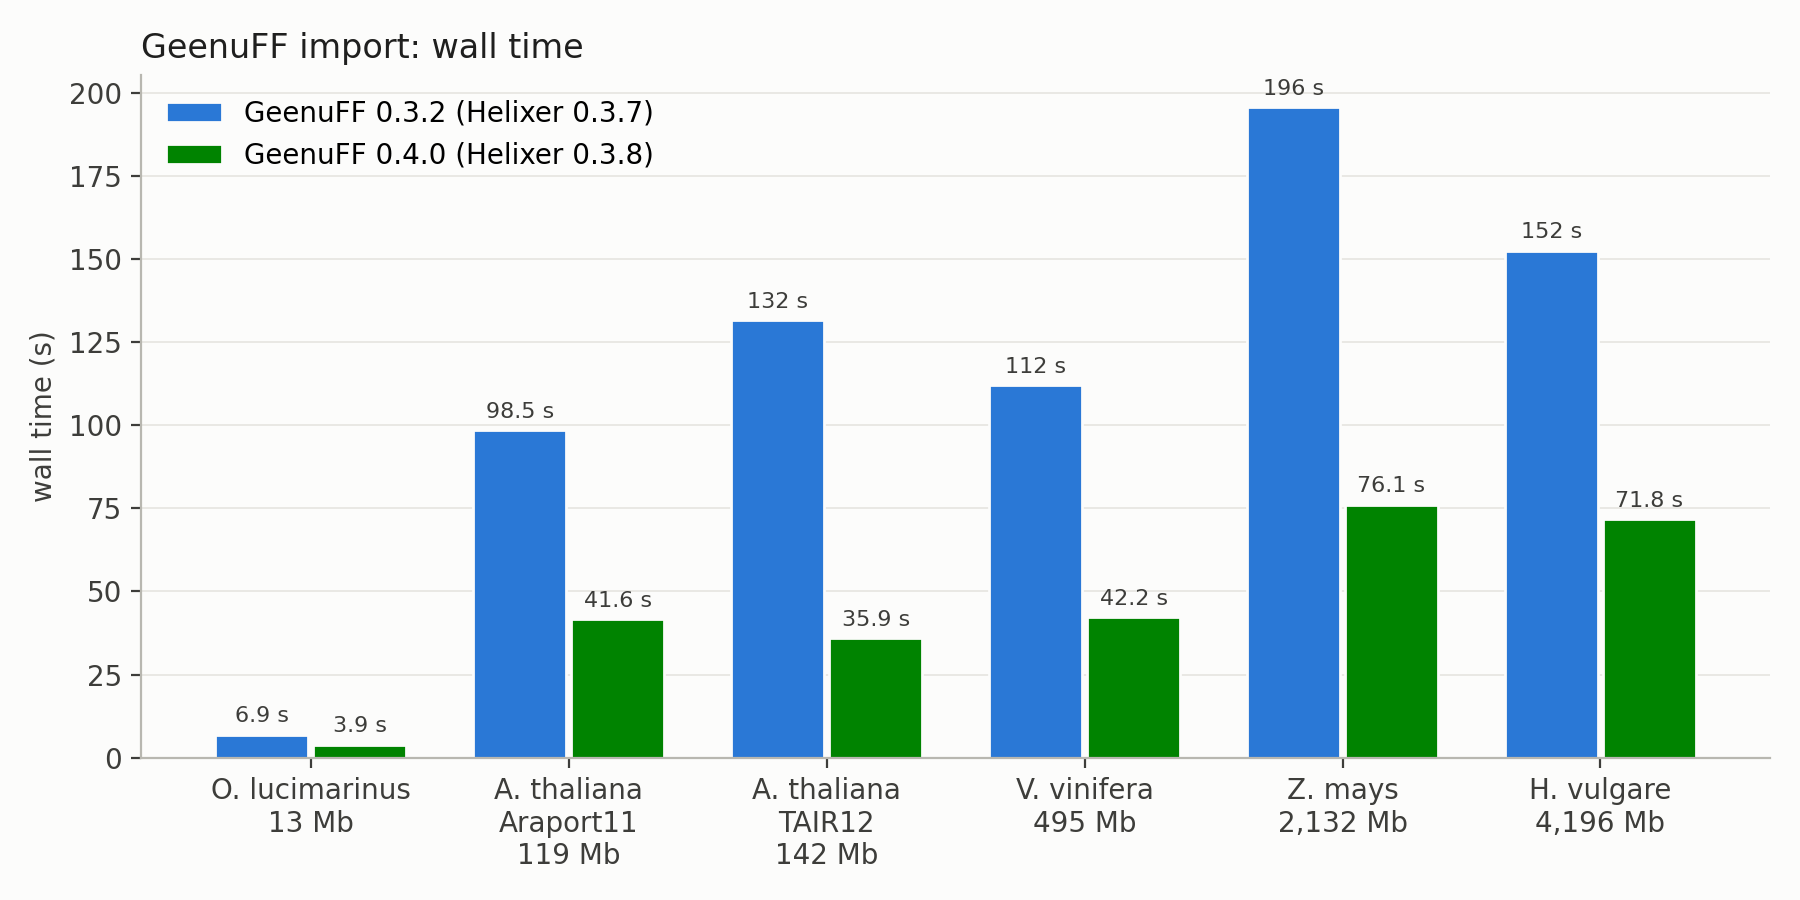
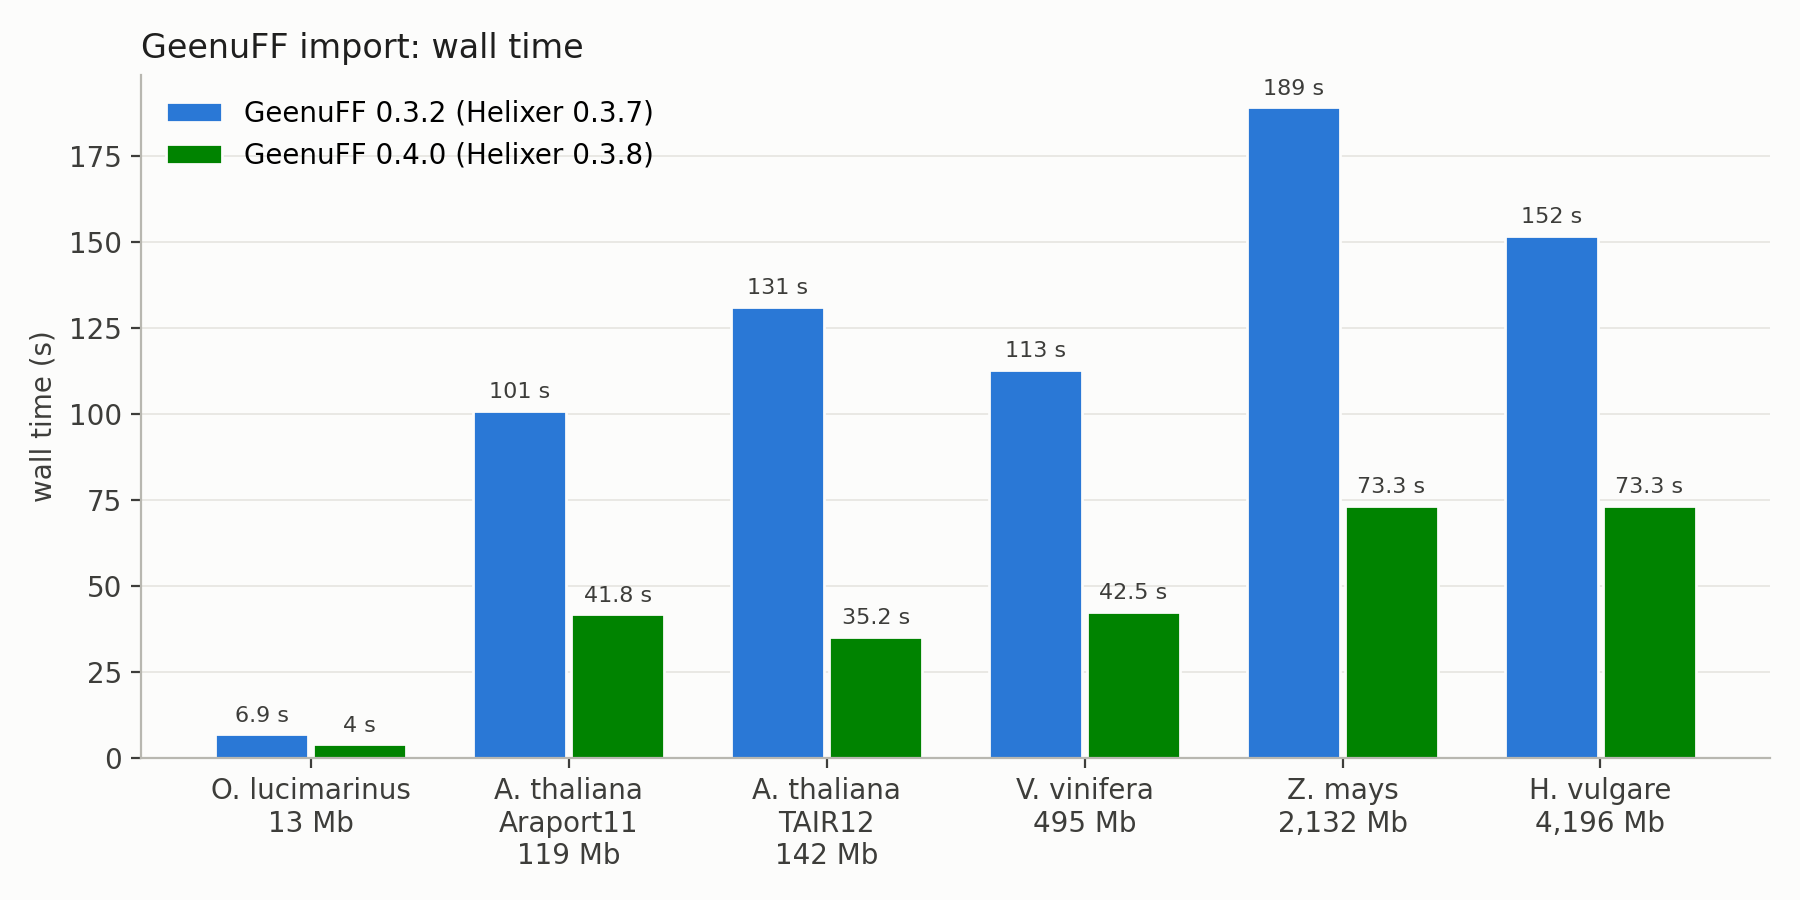
bump SQLAlchemy to 1.4.54

diff --git a/geenuff/base/orm.py b/geenuff/base/orm.py
@@ -1,14 +1,15 @@
 import bisect
 
-from sqlalchemy.ext.declarative import declarative_base
 from sqlalchemy import (Table, Column, Integer, ForeignKey, String, Enum, CheckConstraint, UniqueConstraint, Boolean,
                         Float)
-from sqlalchemy.orm import relationship
+from sqlalchemy.orm import declarative_base, relationship
 
 from geenuff.base import types
 
 # setup classes for data holding
 Base = declarative_base()
+# Enum and Boolean columns are given create_constraint=True: SQLAlchemy 1.4 writes their CHECK constraints
+# only when asked, and they are the only check of the values the importer's bulk inserts write as plain strings
 
 # bases per row of the sequence_chunk table, well below SQLite's limit of 1,000,000,000 bytes per value
 SEQUENCE_CHUNK_SIZE = 100_000_000
@@ -112,7 +113,7 @@ class SuperLocus(Base):
     id = Column(Integer, primary_key=True)
     given_name = Column(String)
     aliases = Column(String)
-    type = Column(Enum(types.SuperLocusAll), index=True)
+    type = Column(Enum(types.SuperLocusAll, create_constraint=True), index=True)
     # why this locus is left out of exports, NULL where it is exported normally. Its features are
     # kept either way: the annotation is recorded as given, and only what a consumer is handed
     # depends on this. Set where there is no honest way to export the locus at all, rather than
@@ -160,7 +161,7 @@ super_locus_overlap = Table(
     Column('partner_id', Integer, ForeignKey('super_locus.id'), nullable=False, index=True),
     Column('start', Integer, nullable=False),
     Column('end', Integer, nullable=False),
-    Column('is_plus_strand', Boolean, nullable=False),
+    Column('is_plus_strand', Boolean(create_constraint=True), nullable=False),
     Column('coordinate_id', Integer, ForeignKey('coordinate.id'), nullable=False, index=True)
 )
 
@@ -177,8 +178,8 @@ class Transcript(Base):
     id = Column(Integer, primary_key=True)
     given_name = Column(String)
 
-    type = Column(Enum(types.TranscriptLevel), index=True)
-    longest = Column(Boolean, index=True)
+    type = Column(Enum(types.TranscriptLevel, create_constraint=True), index=True)
+    longest = Column(Boolean(create_constraint=True), index=True)
 
     super_locus_id = Column(Integer, ForeignKey('super_locus.id'), nullable=False, index=True)
     super_locus = relationship('SuperLocus', back_populates='transcripts')
@@ -203,7 +204,7 @@ class TranscriptError(Base):
     id = Column(Integer, primary_key=True)
     transcript_id = Column(Integer, ForeignKey('transcript.id'), nullable=False, index=True)
     transcript = relationship('Transcript', back_populates='errors')
-    type = Column(Enum(types.Errors), nullable=False, index=True)
+    type = Column(Enum(types.Errors, create_constraint=True), nullable=False, index=True)
 
     __table_args__ = (
         UniqueConstraint('transcript_id', 'type', name='unique_error_per_transcript'),
@@ -260,14 +261,14 @@ class Feature(Base):
     # basic attributes
     id = Column(Integer, primary_key=True)
     given_name = Column(String)
-    type = Column(Enum(types.GeenuffFeature), index=True)
+    type = Column(Enum(types.GeenuffFeature, create_constraint=True), index=True)
 
     start = Column(Integer, nullable=False)
-    start_is_biological_start = Column(Boolean, nullable=False)
+    start_is_biological_start = Column(Boolean(create_constraint=True), nullable=False)
     end = Column(Integer, nullable=False)
-    end_is_biological_end = Column(Boolean, nullable=False)
+    end_is_biological_end = Column(Boolean(create_constraint=True), nullable=False)
 
-    is_plus_strand = Column(Boolean, nullable=False)
+    is_plus_strand = Column(Boolean(create_constraint=True), nullable=False)
     score = Column(Float)
     source = Column(String)
     phase = Column(Integer)

diff --git a/geenuff/applications/exporter.py b/geenuff/applications/exporter.py
@@ -244,7 +244,8 @@ class GeenuffExportController(object):
                      .join(TranscriptPiece, TranscriptPiece.transcript_id == Transcript.id)
                      .join(asso_tp_2_f, asso_tp_2_f.c.transcript_piece_id == TranscriptPiece.id)
                      .join(Feature, asso_tp_2_f.c.feature_id == Feature.id)
-                     .join(Coordinate, Feature.coordinate_id == Coordinate.id))
+                     .join(Coordinate, Feature.coordinate_id == Coordinate.id)
+                     .join(Genome, Coordinate.genome_id == Genome.id))
         # the longest transcripts are the coding ones selected for export, whatever their types,
         # as in the h5 export, and coding ones are selected by their CDS (see SuperLocusRanger);
         # otherwise all isoforms are those of plain genes, mRNAs and transcripts, unless all types

diff --git a/geenuff/applications/importer.py b/geenuff/applications/importer.py
@@ -1666,7 +1666,8 @@ class ImportController(object):
                     for mask in transcript['masks']:
                         mask.add_to_queue()
                         mask.insert_feature_piece_association(tp.id)
-                    for error_type in transcript['detected_error_types']:
+                    # sorted, the set's order changing between runs with Python's string hashing
+                    for error_type in sorted(transcript['detected_error_types']):
                         self.insertion_queues.transcript_error.queue.append(
                             {'transcript_id': transcript['transcript'].id, 'type': error_type})
 

diff --git a/docs/performance.md b/docs/performance.md
@@ -1,26 +1,27 @@
 # Import speed, memory and masking: GeenuFF 0.4.0 against 0.3.2
 
-GeenuFF 0.4.0 imports a genome 1.8 to 3.7 times faster than GeenuFF 0.3.2 and needs 1.7 to 4.2
+GeenuFF 0.4.0 imports a genome 1.7 to 3.7 times faster than GeenuFF 0.3.2 and needs 1.7 to 4.0
 times less memory. It masks genes with errors of their own on the gene, where 0.3.2 mostly masked
 only beside them, and masks far fewer intergenic bases.
 
 ## Setup
 
-|             |                                                                |
-|-------------|----------------------------------------------------------------|
-| CPU         | AMD EPYC 9124, 16 cores, 32 threads                            |
-| memory      | 377 GB                                                         |
-| storage     | NVMe SSD (Micron 7450)                                         |
-| system      | Ubuntu 24.04.4 LTS, Linux 7.0.0                                |
-| software    | Python 3.10.20, SQLite 3.45.1, SQLAlchemy 1.3.22, NumPy 1.26.4 |
-| old version | GeenuFF 0.3.2, as installed with Helixer 0.3.7                 |
-| new version | GeenuFF 0.4.0, as installed with Helixer 0.3.8                 |
+|             |                                                                   |
+|-------------|-------------------------------------------------------------------|
+| CPU         | AMD EPYC 9124, 16 cores, 32 threads                               |
+| memory      | 377 GB                                                            |
+| storage     | NVMe SSD (Micron 7450)                                            |
+| system      | Ubuntu 24.04.4 LTS, Linux 7.0.0                                   |
+| software    | Python 3.10.22, SQLite 3.45.1, NumPy 1.26.4                       |
+| old version | GeenuFF 0.3.2, as installed with Helixer 0.3.7, SQLAlchemy 1.3.22 |
+| new version | GeenuFF 0.4.0, as installed with Helixer 0.3.8, SQLAlchemy 1.4.54 |
 
 Each genome was prepared once with the 0.4.0 preparation scripts (`rename_gff_seqids.py`,
 `filter_sequence_lengths.py`, `add_gene_lines.py`, `add_transcript_lines.py`, `rebuild_exons.py`,
 see [scripts.md](scripts.md)), and both versions imported the same decompressed files, one import
 at a time, measured with `/usr/bin/time -v` (wall time and peak resident memory). The input was read
-once beforehand, so both versions found it in the page cache. GeenuFF 0.3.2 stops on files 0.4.0
+once beforehand, so both versions found it in the page cache. Each import ran twice, the tables and
+figures giving the mean of both runs. GeenuFF 0.3.2 stops on files 0.4.0
 reads, so two of them were adapted for both versions alike:
 
 * Phytozome's `*.gene.gff3` files sometimes have no exon lines; 0.4.0 builds them itself
@@ -59,12 +60,12 @@ organelle genomes and unplaced scaffolds; renaming found nothing to change in an
 
 | species                 | 0.3.2: s, GB | 0.4.0: s, GB | faster | less memory |
 |-------------------------|--------------|--------------|--------|-------------|
-| *O. lucimarinus*        | 6.9, 0.22    | 3.9, 0.09    | 1.8x   | 2.4x        |
-| *A. thaliana* Araport11 | 98.5, 1.53   | 41.6, 0.91   | 2.4x   | 1.7x        |
-| *A. thaliana* TAIR12    | 131.6, 3.32  | 35.9, 0.97   | 3.7x   | 3.4x        |
-| *V. vinifera*           | 112.1, 3.15  | 42.2, 0.83   | 2.7x   | 3.8x        |
-| *Z. mays*               | 195.6, 5.90  | 76.1, 1.42   | 2.6x   | 4.2x        |
-| *H. vulgare*            | 152.5, 6.47  | 71.8, 2.37   | 2.1x   | 2.7x        |
+| *O. lucimarinus*        | 6.9, 0.21    | 4.0, 0.09    | 1.7x   | 2.3x        |
+| *A. thaliana* Araport11 | 100.9, 1.53  | 41.8, 0.92   | 2.4x   | 1.7x        |
+| *A. thaliana* TAIR12    | 131.1, 3.32  | 35.2, 1.00   | 3.7x   | 3.3x        |
+| *V. vinifera*           | 112.8, 3.17  | 42.5, 0.83   | 2.7x   | 3.8x        |
+| *Z. mays*               | 189.1, 5.90  | 73.3, 1.46   | 2.6x   | 4.0x        |
+| *H. vulgare*            | 151.8, 6.47  | 73.3, 2.44   | 2.1x   | 2.7x        |
 
 Import time follows the number of GFF3 lines more than the genome size. Memory grows much less with
 the genome than before, as 0.4.0 writes the sequences to the database piece by piece instead of
@@ -73,7 +74,7 @@ peak follows the GFF3 lines, unless the largest sequence is larger, as in *H. vu
 to 666 Mb).
 
 Very large chromosomes: *Pinus massoniana* (21.9 Gb, largest chromosome 2.4 Gb) imports with 0.4.0
-in 251 s at 8.0 GB. GeenuFF 0.3.2 cannot import it: it stops on any chromosome over 2.1 Gb
+in 254 s at 8.0 GB. GeenuFF 0.3.2 cannot import it: it stops on any chromosome over 2.1 Gb
 (`OverflowError: string longer than INT_MAX bytes`), as it stores each sequence as one piece
 (Python's SQLite interface only works on up to 2^31 - 1 bytes).
 

diff --git a/README.md b/README.md
@@ -37,7 +37,7 @@ is released together with Helixer 0.3.8, which requires it.
   characters stop the import, as do GTF files and damaged gzipped or zipped files; unknown feature
   types are skipped. A stop codon left out of the CDS, as in GFF3 converted from GTF, is added.
 - **No chromosome size limit:** chromosomes longer than 2,147,483,647 bp can be imported.
-- **Faster:** imports are 2 to 3.7 times faster and need up to 2.7 times less memory (see
+- **Faster:** imports are 1.7 to 3.7 times faster and need up to 4 times less memory (see
   [docs/performance.md](docs/performance.md)).
 - **Import summary:** the import ends with a summary of what was left out or masked and why;
   `summarize_geenuff_db.py` recreates it from a database.
